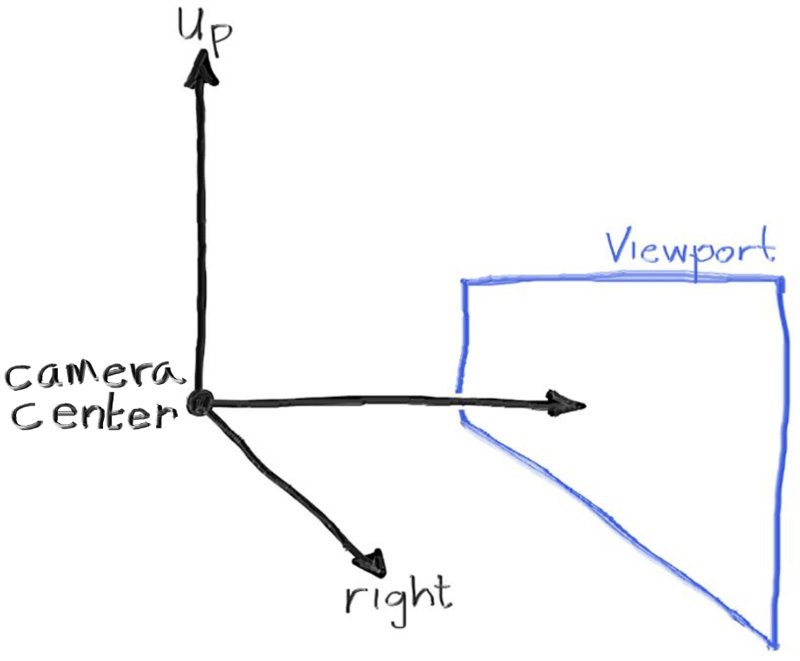
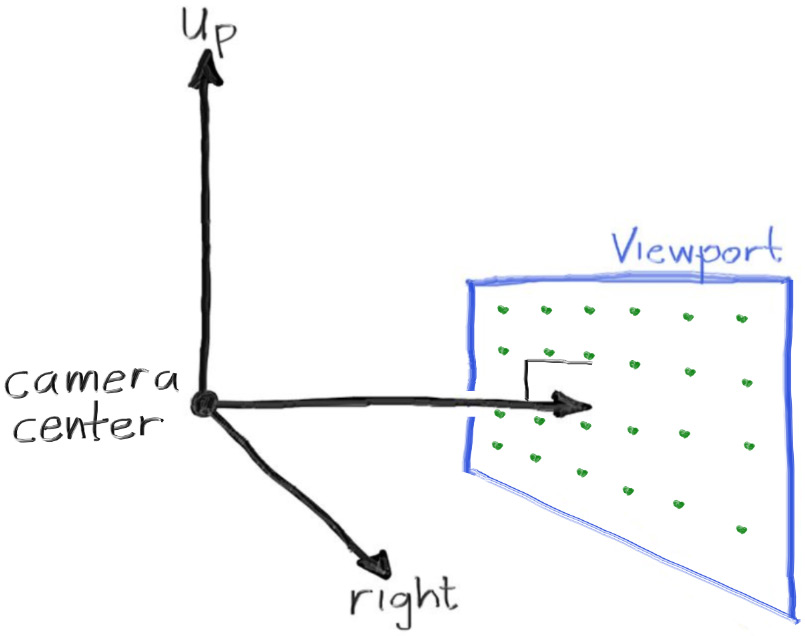
Review feedback

diff --git a/books/RayTracingInOneWeekend.html b/books/RayTracingInOneWeekend.html
@@ -430,7 +430,7 @@ Now we can change our main to use this:
             std::clog << "\rScanlines remaining: " << (image_height - j) << ' ' << std::flush;
             for (int i = 0; i < image_width; ++i) {
     ~~~~~~~~~~~~~~~~~~~~~~~~~~~~~~~~~~~~~~~~~~~~~~~~~~~~~~~~~~~~~~~~~~~~~~~~~~~~~~~~~~ C++ highlight
-                color pixel_color(double(i)/(image_width-1), double(j)/(image_height-1), 0.25);
+                auto pixel_color = color(double(i)/(image_width-1), double(j)/(image_height-1), 0);
                 write_color(std::cout, pixel_color);
     ~~~~~~~~~~~~~~~~~~~~~~~~~~~~~~~~~~~~~~~~~~~~~~~~~~~~~~~~~~~~~~~~~~~~~~~~~~~~~~~~~~~~~~~~~~~~ C++
             }
@@ -512,8 +512,6 @@ The involved steps are
     3. Compute a color for that intersection point.
 
 When first developing a ray tracer, I always do a simple camera for getting the code up and running.
-I also make a simple `ray_color(ray)` function that returns the color of the background (a simple
-  gradient).
 
 I’ve often gotten into trouble using square images for debugging because I transpose $x$ and $y$ too
   often, so I’ll use a non-square image.
@@ -553,7 +551,7 @@ Here's a snippet of what this code will look like:
     int image_height = static_cast<int>(image_width / aspect_ratio);
     image_height = (image_height < 1) ? 1 : image_height;
 
-    // Calculate the viewport height. Since it's real valued, we don't check for values less then 1.
+    // Viewport widths less than one are ok since they are real valued.
     auto viewport_height = 2.0;
     auto viewport_width = viewport_height * (static_cast<double>(image_width)/image_height);
     ~~~~~~~~~~~~~~~~~~~~~~~~~~~~~~~~~~~~~~~~~~~~~~~~~~~~~~~~~~~~~~~~~~~~~~~~~~~~~~~~~~~~~~~~~~~~~~~~
@@ -563,6 +561,11 @@ Here's a snippet of what this code will look like:
 because the _actual_ aspect ratio is the integer-based ratio of image width over image height, which
 will yield zero for values less than one.)
 
+Note that `aspect_ratio` is an ideal ratio, which we approximate as best as possible with the
+  integer-based ratio of image width / image height.
+In order for our viewport proportions to exactly match our image proportions, we use the calculated
+  image aspect ratio to determine our final viewport width.
+
 Next we will define the camera center: a point in 3D space from which all scene rays will originate
   (this is also commonly referred to as the _eye point_).
 The vector from the camera center to the viewport center will be orthogonal to the viewport.
@@ -570,35 +573,40 @@ We'll initially set the distance between the viewport and the camera center poin
 This distance is often referred to as the _focal length_.
 
 I’ll put the camera center at $(0,0,0)$.
-I will have the y-axis go up, and the x-axis to the right.
-Since we use a right-handed coordinate system, the vector into the screen is the negative z-axis.
-Note that I do not make the ray direction a unit length vector because I think not doing that makes
-  for simpler and slightly faster code.
+I will have the y-axis go up, the x-axis to the right, and the negative z-axis pointing in the
+viewing direction. (This is commonly referred to as _right-handed coordinates_.)
 
   ![Figure [camera-geom]: Camera geometry](../images/fig-1.03-cam-geom.jpg)
 
 Now the inevitable tricky part.
-While our 3D space has the conventions above, this conflicts with the standard _image_ coordinates,
-  where the Y axis is inverted (increasing going down).
+While our 3D space has the conventions above, this conflicts with our image coordinates,
+  where we want to have the zeroth pixel in the top-left and work our way down to the last pixel at
+  the bottom right.
+This means that our image coordinate Y-axis is inverted: Y increases going down the image.
 
-As we scan our image, we will start at the upper left pixel (pixel 0,0), scan left-to-right across
-  the row, and then scan the next row, top-to-bottom (reading order for most Latin languages).
+As we scan our image, we will start at the upper left pixel (pixel $0,0$), scan left-to-right across
+  each row, and then scan row-by-row, top-to-bottom.
 To help navigate the pixel grid, we'll use a vector from the left edge to the right edge
-  (`viewport_u`), and a vector from the upper edge to the lower edge (`viewport_v`).
+  ($\mathbf{V_u}$), and a vector from the upper edge to the lower edge ($\mathbf{V_v}$).
 
 Our pixel grid will be inset from the viewport edges by half the pixel-to-pixel distance, so each
   pixel will gather light from the area around it.
+
+Our pixel grid will be inset from the viewport edges by half the pixel-to-pixel distance.
+This way, our viewport area is evenly divided into width &times; height identical regions.
 Here's what our viewport and pixel grid look like:
 
   ![Figure [pixel-grid]: Viewport and pixel grid](../images/fig-1.04-pixel-grid.jpg)
 
-In this figure, we have the viewport, the pixel grid for a 7×5 resolution image, the viewport upper
-  left corner $\mathbf{Q}$, the pixel $\mathbf{P_{0,0}}$ location, the `viewport_u` vector
-  $\mathbf{V_u}$, the `viewport_v` vector $\mathbf{V_v}$, and the pixel delta vectors
-  $\mathbf{\Delta_u}$ and $\mathbf{\Delta_v}$.
+In this figure, we have the viewport, the pixel grid for a 7&times;5 resolution image, the viewport
+  upper left corner $\mathbf{Q}$, the pixel $\mathbf{P_{0,0}}$ location, the viewport vector
+  $\mathbf{V_u}$ (`viewport_u`), the viewport vector $\mathbf{V_v}$ (`viewport_v`), and the pixel
+  delta vectors $\mathbf{\Delta_u}$ and $\mathbf{\Delta_v}$.
 
 <div class='together'>
 Drawing from all of this, here's the code that implements the camera.
+We'll stub in a function `ray_color(const ray& r)` that returns the color for a given scene ray
+  -- always black for now.
 
     ~~~~~~~~~~~~~~~~~~~~~~~~~~~~~~~~~~~~~~~~~~~~~~~~~~~~~~~~~~~~~~~~~~~~~~~~~~~~~~~~~~~~~~~~~~~~ C++
     #include "color.h"
@@ -612,9 +620,7 @@ Drawing from all of this, here's the code that implements the camera.
 
     ~~~~~~~~~~~~~~~~~~~~~~~~~~~~~~~~~~~~~~~~~~~~~~~~~~~~~~~~~~~~~~~~~~~~~~~~~~~~~~~~~~ C++ highlight
     color ray_color(const ray& r) {
-        vec3 unit_direction = unit_vector(r.direction());
-        auto a = 0.5*(unit_direction.y() + 1.0);
-        return (1.0-a)*color(1.0, 1.0, 1.0) + a*color(0.5, 0.7, 1.0);
+        return color(0,0,0);
     }
     ~~~~~~~~~~~~~~~~~~~~~~~~~~~~~~~~~~~~~~~~~~~~~~~~~~~~~~~~~~~~~~~~~~~~~~~~~~~~~~~~~~~~~~~~~~~~ C++
 
@@ -672,16 +678,19 @@ Drawing from all of this, here's the code that implements the camera.
         std::clog << "\rDone.                 \n";
     }
     ~~~~~~~~~~~~~~~~~~~~~~~~~~~~~~~~~~~~~~~~~~~~~~~~~~~~~~~~~~~~~~~~~~~~~~~~~~~~~~~~~~~~~~~~~~~~~~~~
-    [Listing [main-blue-white-blend]: <kbd>[main.cc]</kbd> Rendering a blue-to-white gradient]
+    [Listing [creating-rays]: <kbd>[main.cc]</kbd> Creating scene rays]
 </div>
 
-<div class='together'>
-The `ray_color(ray)` function linearly blends white and blue depending on the height of the $y$
-  coordinate _after_ scaling the ray direction to unit length (so $-1.0 < y < 1.0$).
+Notice that in the code above, I didn't make `ray_direction` a unit vector, because I think not
+  doing that makes for simpler and slightly faster code.
+
+Now we'll fill in the `ray_color(ray)` function to implement a simple gradient.
+This function will linearly blend white and blue depending on the height of the $y$ coordinate
+  _after_ scaling the ray direction to unit length (so $-1.0 < y < 1.0$).
 Because we're looking at the $y$ height after normalizing the vector, you'll notice a horizontal
   gradient to the color in addition to the vertical gradient.
 
-I then did a standard graphics trick of scaling that to $0.0 ≤ a ≤ 1.0$.
+I'll use a standard graphics trick to linearly scale $0.0 ≤ a ≤ 1.0$.
 When $a = 1.0$, I want blue.
 When $a = 0.0$, I want white.
 In between, I want a blend.
@@ -692,6 +701,33 @@ A lerp is always of the form
   $$ \text{blendedValue} = (1-a)\cdot\text{startValue} + a\cdot\text{endValue}, $$
 
 with $a$ going from zero to one.
+
+<div class='together'>
+Putting this all together, here's what we get:
+
+    ~~~~~~~~~~~~~~~~~~~~~~~~~~~~~~~~~~~~~~~~~~~~~~~~~~~~~~~~~~~~~~~~~~~~~~~~~~~~~~~~~~~~~~~~~~~~ C++
+    #include "color.h"
+    #include "ray.h"
+    #include "vec3.h"
+
+    #include <iostream>
+
+
+    color ray_color(const ray& r) {
+    ~~~~~~~~~~~~~~~~~~~~~~~~~~~~~~~~~~~~~~~~~~~~~~~~~~~~~~~~~~~~~~~~~~~~~~~~~~~~~~~~~~ C++ highlight
+        vec3 unit_direction = unit_vector(r.direction());
+        auto a = 0.5*(unit_direction.y() + 1.0);
+        return (1.0-a)*color(1.0, 1.0, 1.0) + a*color(0.5, 0.7, 1.0);
+    ~~~~~~~~~~~~~~~~~~~~~~~~~~~~~~~~~~~~~~~~~~~~~~~~~~~~~~~~~~~~~~~~~~~~~~~~~~~~~~~~~~~~~~~~~~~~ C++
+    }
+
+    ...
+    ~~~~~~~~~~~~~~~~~~~~~~~~~~~~~~~~~~~~~~~~~~~~~~~~~~~~~~~~~~~~~~~~~~~~~~~~~~~~~~~~~~~~~~~~~~~~~~~~
+    [Listing [main-blue-white-blend]: <kbd>[main.cc]</kbd> Rendering a blue-to-white gradient]
+
+</div>
+
+<div class='together'>
 In our case this produces:
 
   ![Image 2: A blue-to-white gradient depending on ray Y coordinate
